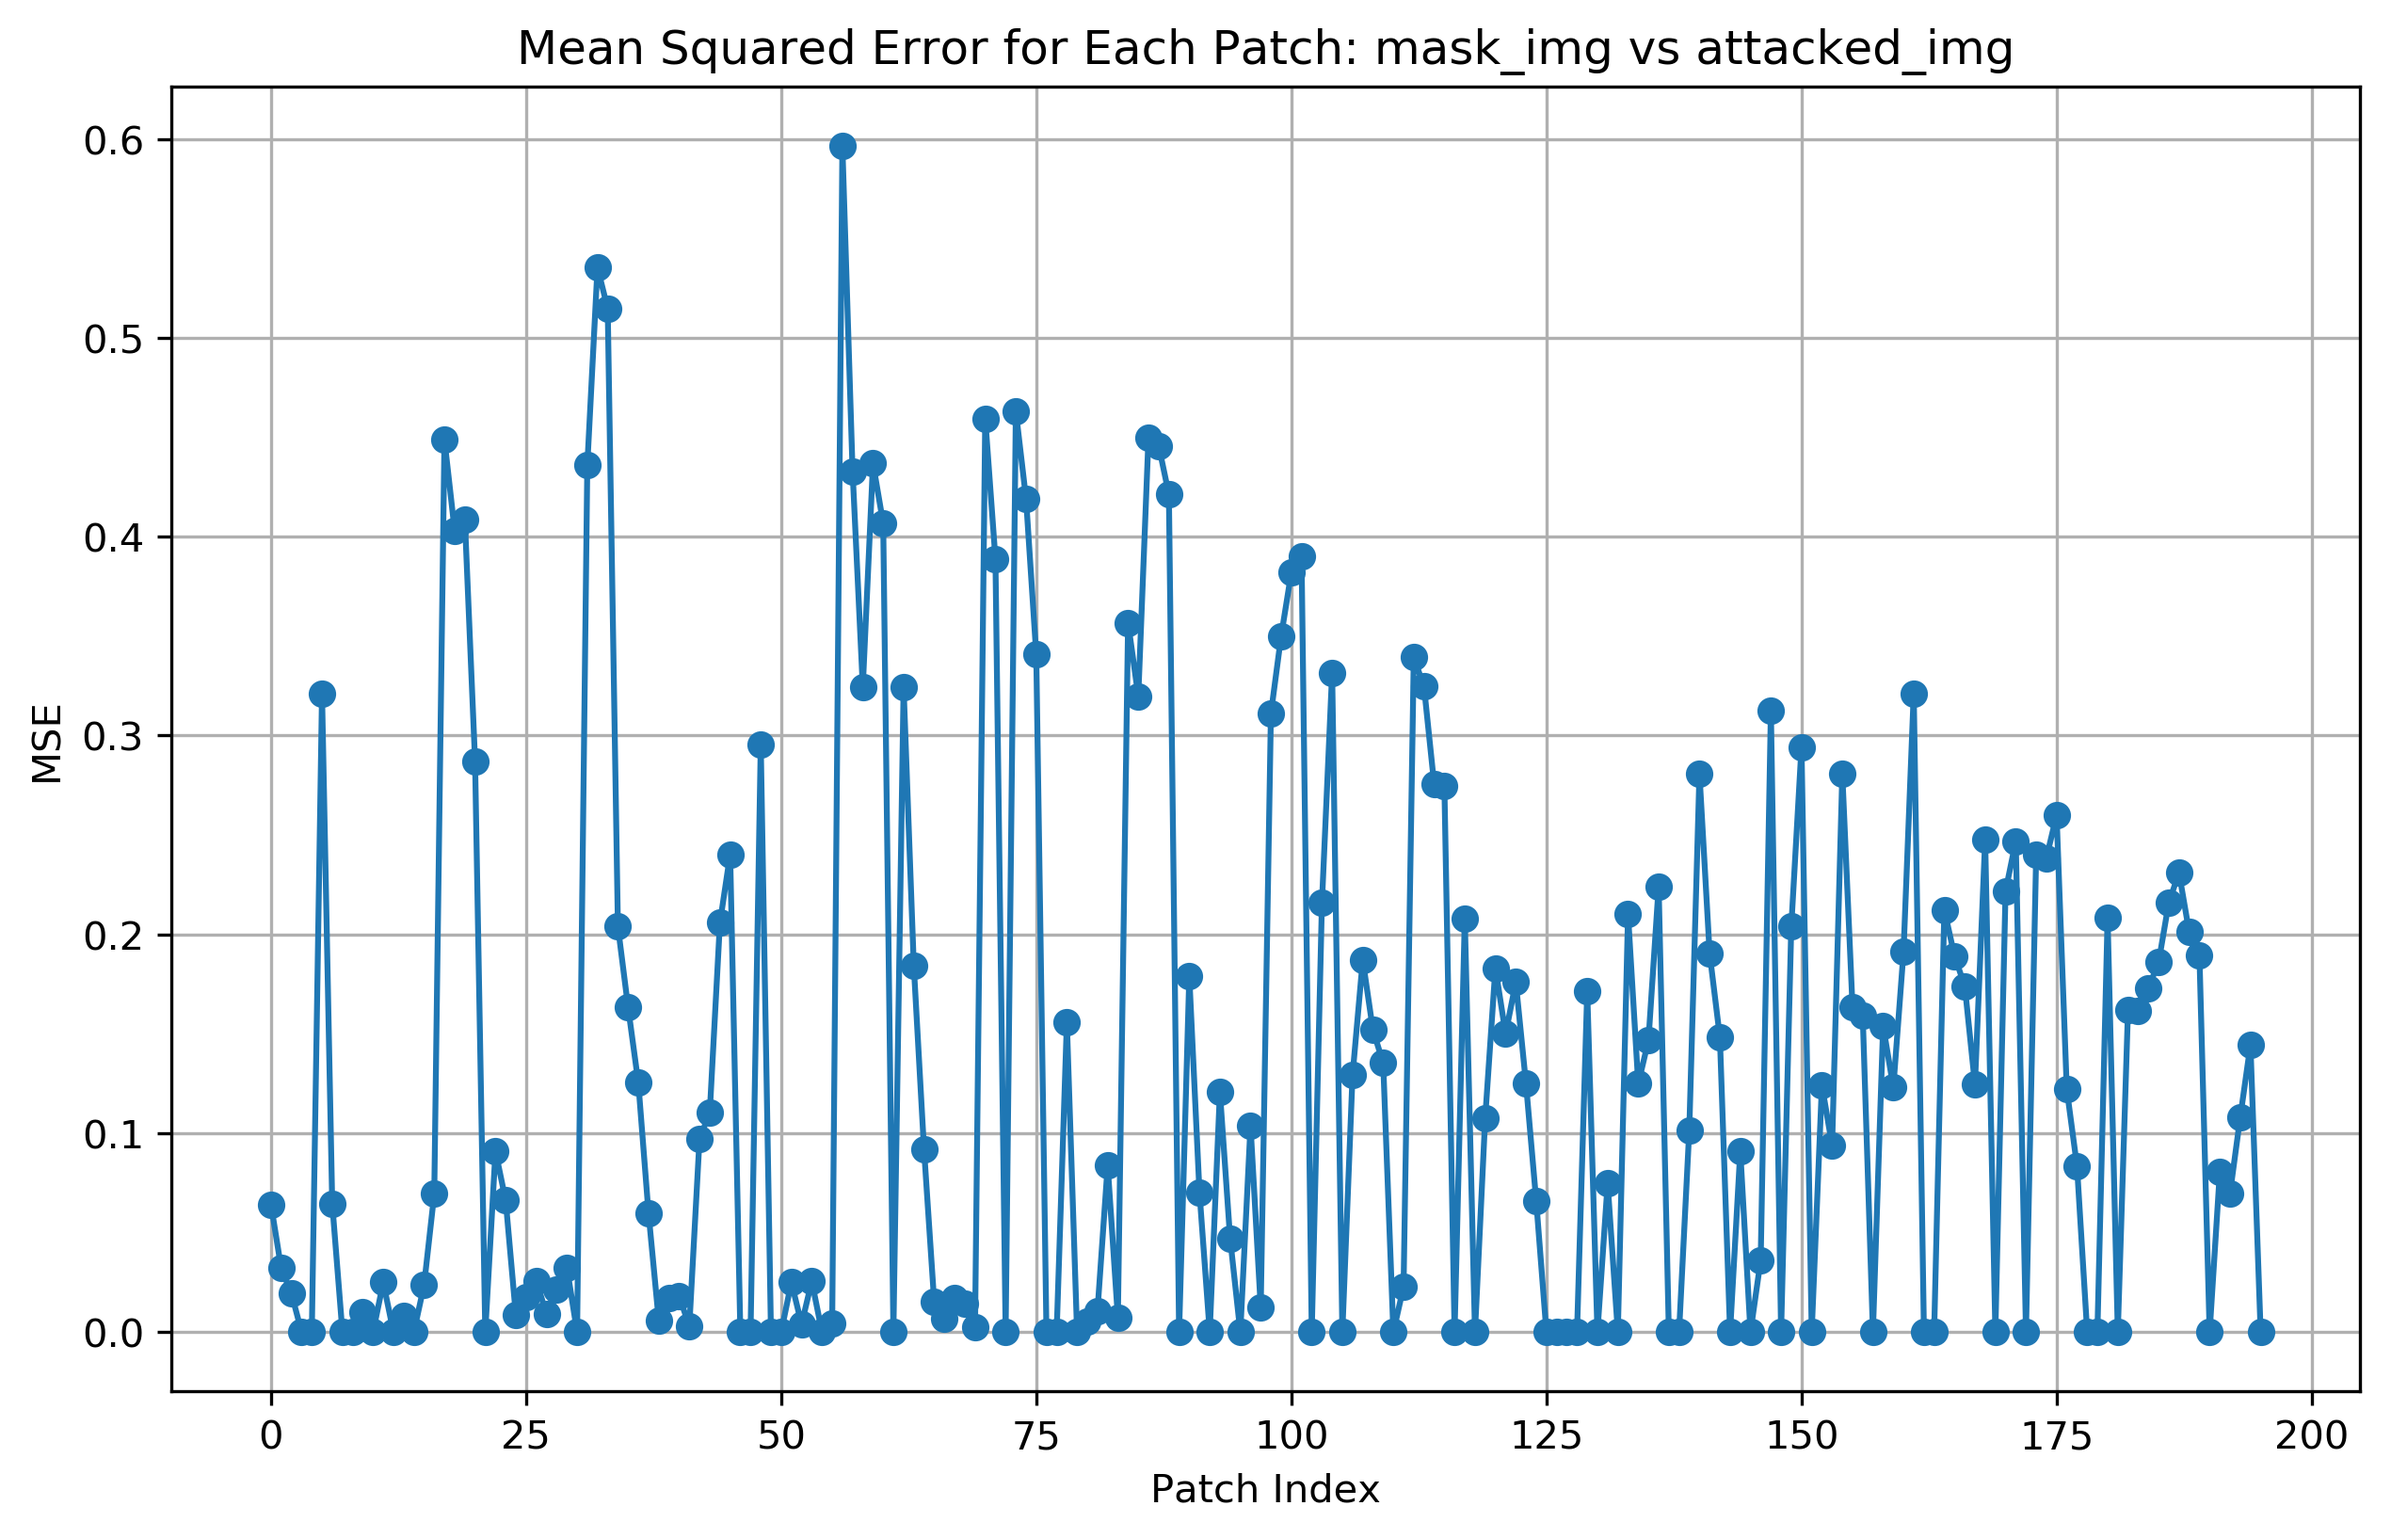
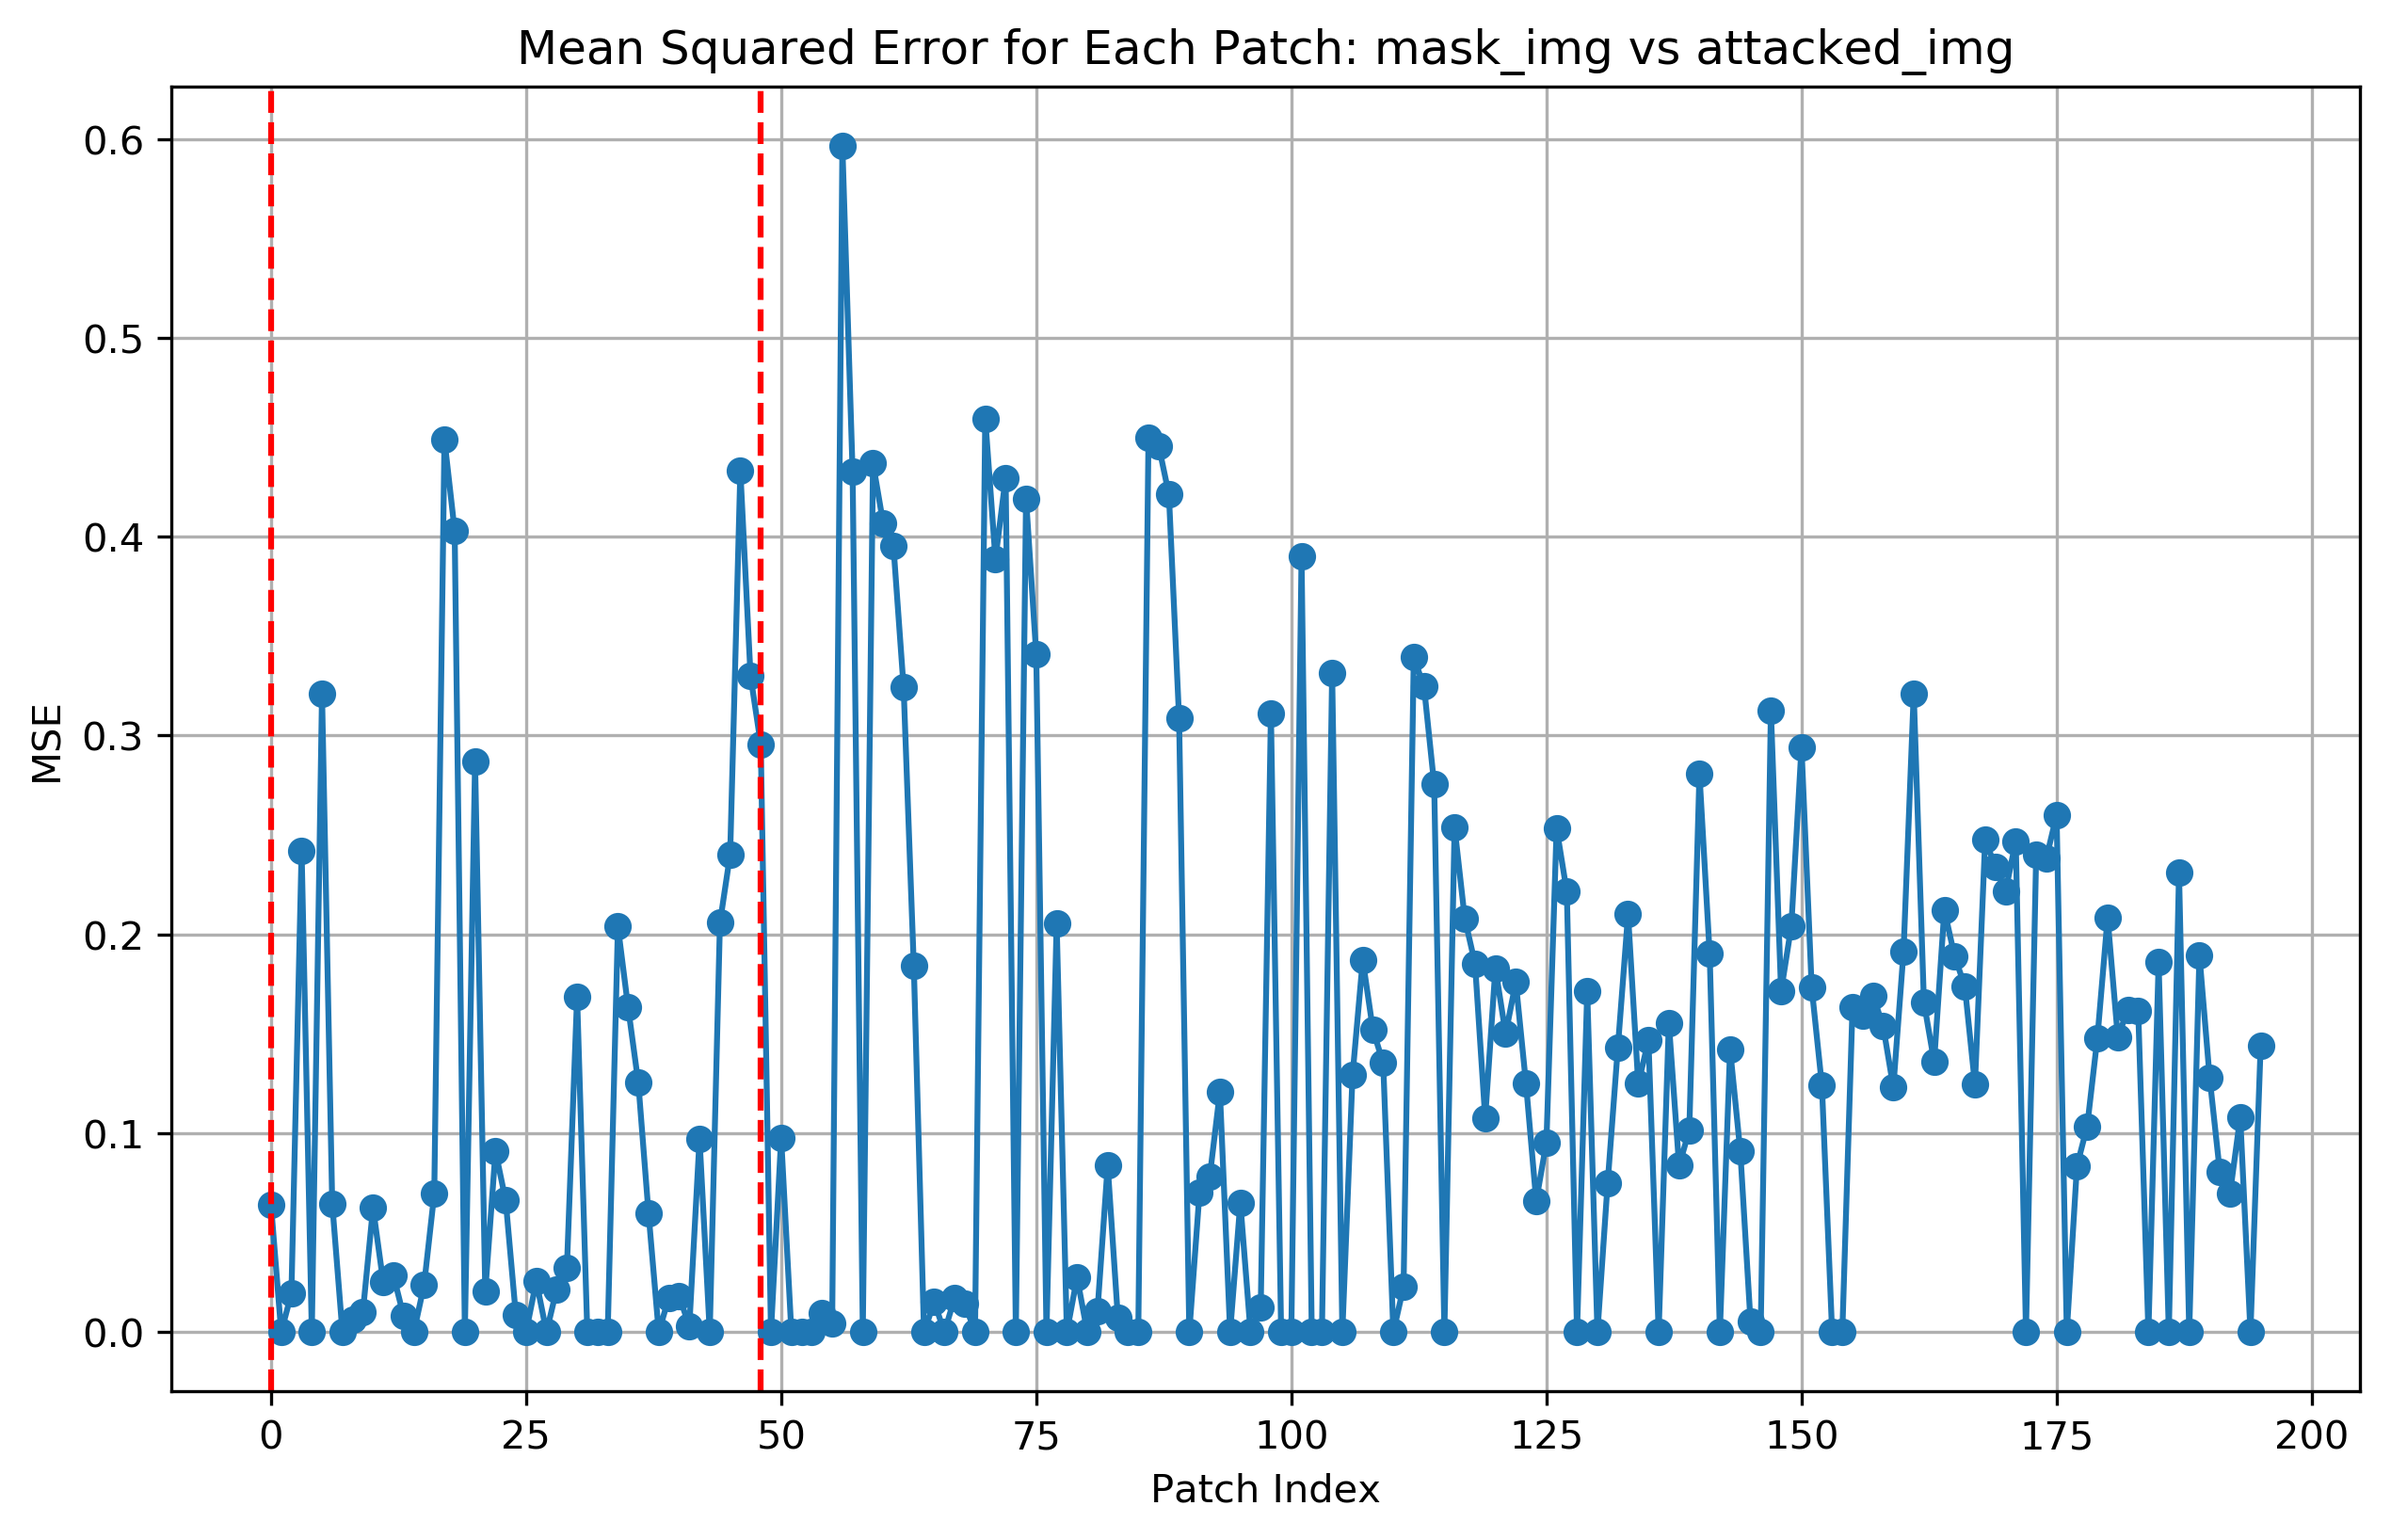
add patch attack region and average loss

diff --git a/run_mae_vis.py b/run_mae_vis.py
@@ -84,20 +84,9 @@ def compute_pixelwise_accuracy(original, reconstructed, threshold=0.05):
     return accuracy.item()
 
 def calculate_patchwise_mse(ori_img, mask_img, patch_size):
-    """
-    Calculate Mean Squared Error (MSE) for each patch between the original image and the masked image.
-    
-    Parameters:
-    - ori_img (torch.Tensor): The original image tensor.
-    - mask_img (torch.Tensor): The masked image tensor.
-    - patch_size (tuple): The height and width of the patches.
-    
-    Returns:
-    - list: A list of MSE values for each patch.
-    """
-    
+    """Calculate Mean Squared Error for each patch."""
     mse_losses = []
-    
+    patch_indexes = []
     for i in range(0, ori_img.shape[2], patch_size[0]):
         for j in range(0, ori_img.shape[3], patch_size[1]):
             patch_ori = ori_img[:, :, i:i+patch_size[0], j:j+patch_size[1]]
@@ -105,57 +94,65 @@ def calculate_patchwise_mse(ori_img, mask_img, patch_size):
             
             mse = ((patch_ori - patch_mask) ** 2).mean().item()
             mse_losses.append(mse)
+            patch_indexes.append((i, j))
     
-    return mse_losses
+    # Get indexes of patches with top 7.5% highest MSE
+    top_mse_count = int(0.075 * len(mse_losses))
+    top_mse_indexes = sorted(range(len(mse_losses)), key=lambda i: mse_losses[i], reverse=True)[:top_mse_count]
+    top_patch_indexes = [patch_indexes[i] for i in top_mse_indexes]
+    
+    return mse_losses, top_patch_indexes
 
-import matplotlib.pyplot as plt
 
-def plot_mse_per_patch(mse_losses, save_path, title):
-    """
-    Plot Mean Squared Error (MSE) for each patch and save the plot.
-    
-    Parameters:
-    - mse_losses (list): List of MSE values for each patch.
-    - save_path (str): File path to save the plot.
-    
-    """
-    
+def plot_mse_per_patch(mse_losses, top_patch_indexes, save_path, title):
+    """Plot Mean Squared Error for each patch."""
     plt.figure(figsize=(10, 6))
     plt.plot(mse_losses, marker='o')
+    
+    # Highlight the patches with the highest MSE
+    x_index = [x[0] for x in top_patch_indexes]
+    plt.axvline(x=min(x_index), color='red', linestyle='--')
+    plt.axvline(x=max(x_index), color='red', linestyle='--')
+
     plt.title(title)
     plt.xlabel('Patch Index')
     plt.ylabel('MSE')
     plt.grid(True)
     plt.savefig(save_path, bbox_inches='tight', dpi=300)
 
+
 def assessment(ori_img, attacked_img, mask_img, rec_img, patch_size):
- #calculate accuracy
-        print("Accuracy: ", compute_pixelwise_accuracy(ori_img, rec_img))
+    #calculate accuracy
+    print("Accuracy: ", compute_pixelwise_accuracy(ori_img, rec_img))
 
-        #calculate MSE for each patch: attacked_img vs ori_img
-        mse_losses = calculate_patchwise_mse(ori_img, attacked_img, patch_size)
+    # calculate MSE for each patch: attacked_img vs ori_img
+    mse_losses, top_patch_indexes = calculate_patchwise_mse(ori_img, attacked_img, patch_size)
+    print("Average MSE loss (attacked_img vs ori_img):", np.mean(mse_losses))  # <-- printing average
         
-        #plot MSE for attacked_img vs ori_img
-        plot_mse_per_patch(mse_losses, save_path='out/attacked_vs_ori.png', title='Mean Squared Error for Each Patch: attacked_img vs ori_img')
+    # plot MSE for attacked_img vs ori_img
+    plot_mse_per_patch(mse_losses, top_patch_indexes, save_path='out/attacked_vs_ori.png', title='Mean Squared Error for Each Patch: attacked_img vs ori_img')
 
-        #calculate MSE for each patch: mask_img vs attacked_img
-        mse_losses = calculate_patchwise_mse(attacked_img, mask_img, patch_size)
+    #calculate MSE for each patch: mask_img vs attacked_img
+    mse_losses, _ = calculate_patchwise_mse(attacked_img, mask_img, patch_size)
+    print("Average MSE loss (mask_img vs attacked_img):", np.mean(mse_losses))  # <-- printing average
         
-        #plot MSE for mask_img vs attacked_img
-        plot_mse_per_patch(mse_losses, save_path='out/mask_vs_attacked.png', title='Mean Squared Error for Each Patch: mask_img vs attacked_img')
+    #plot MSE for mask_img vs attacked_img
+    plot_mse_per_patch(mse_losses, top_patch_indexes, save_path='out/mask_vs_attacked.png', title='Mean Squared Error for Each Patch: mask_img vs attacked_img')
 
-        #calculate MSE for each patch: rec_img vs attacked_img
-        mse_losses = calculate_patchwise_mse(attacked_img, rec_img, patch_size)
+    #calculate MSE for each patch: rec_img vs attacked_img
+    mse_losses, _ = calculate_patchwise_mse(attacked_img, rec_img, patch_size)
+    print("Average MSE loss (rec_img vs attacked_img):", np.mean(mse_losses))  # <-- printing average
         
-        #plot MSE for rec_img vs attacked_img
-        plot_mse_per_patch(mse_losses, save_path='out/rec_vs_attacked.png', title='Mean Squared Error for Each Patch: rec_img vs attacked_img')
+    #plot MSE for rec_img vs attacked_img
+    plot_mse_per_patch(mse_losses, top_patch_indexes, save_path='out/rec_vs_attacked.png', title='Mean Squared Error for Each Patch: rec_img vs attacked_img')
 
-        #calculate MSE for each patch: rec_img vs ori_img
-        mse_losses = calculate_patchwise_mse(ori_img, rec_img, patch_size)
+    #calculate MSE for each patch: rec_img vs ori_img
+    mse_losses, _ = calculate_patchwise_mse(ori_img, rec_img, patch_size)
+    print("Average MSE loss (rec_img vs ori_img):", np.mean(mse_losses))  # <-- printing average
         
-        #plot MSE for rec_img vs ori_img
-        plot_mse_per_patch(mse_losses, save_path='out/rec_vs_ori.png', title='Mean Squared Error for Each Patch: rec_img vs ori_img')
-   
+    #plot MSE for rec_img vs ori_img
+    plot_mse_per_patch(mse_losses, top_patch_indexes, save_path='out/rec_vs_ori.png', title='Mean Squared Error for Each Patch: rec_img vs ori_img')
+
 
 def main(args):
     print(args)
